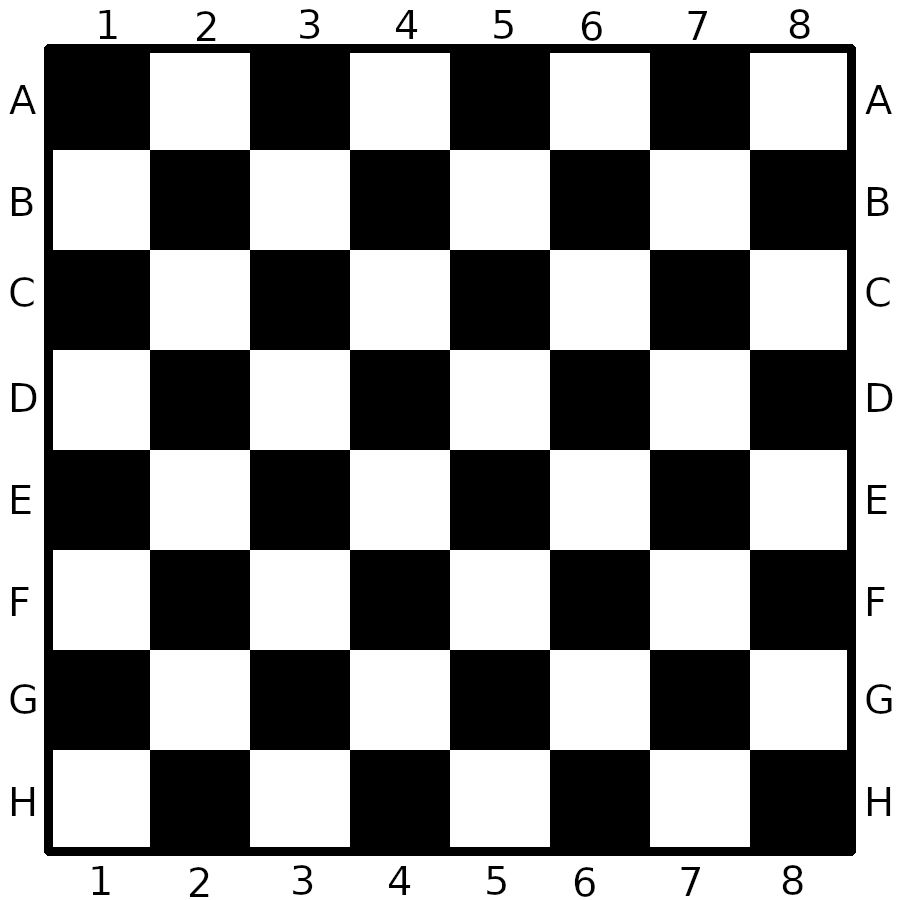
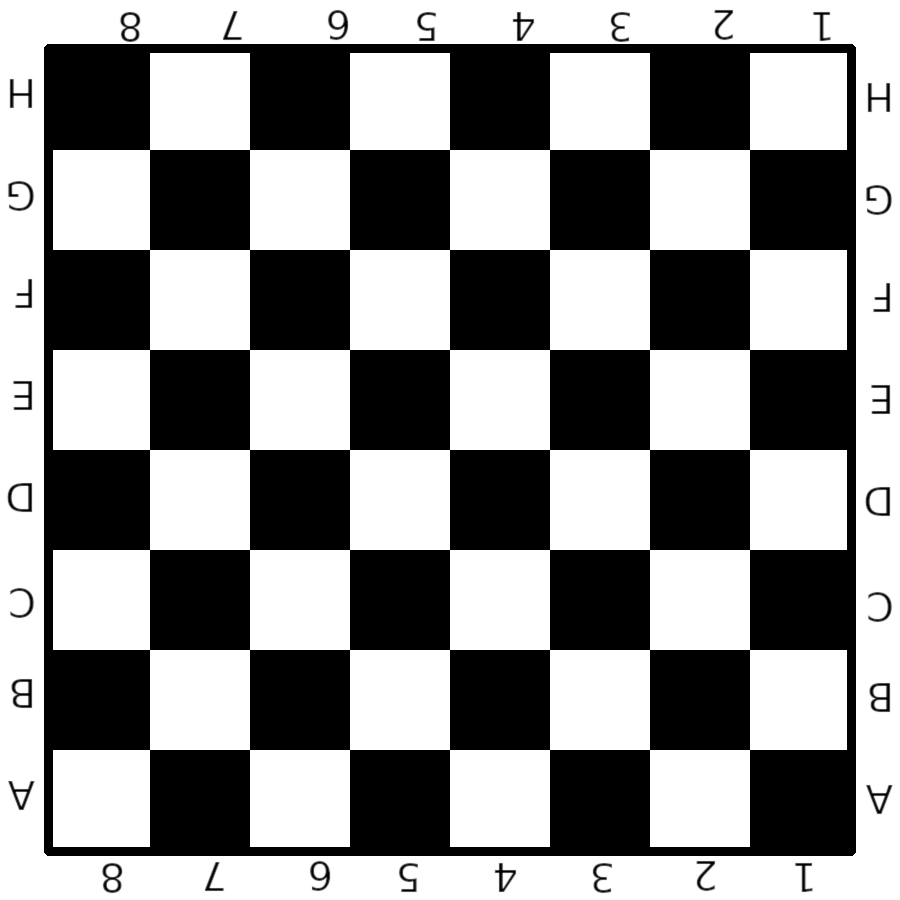
[fixed] fixed queen and king postion and chessboard.png

diff --git a/src/game/game.cpp b/src/game/game.cpp
@@ -6,8 +6,8 @@ Game::Game() {
     this->figures.emplace_back(TOWER, Figure::Position{'a', '1'}, true);
     this->figures.emplace_back(HORSE, Figure::Position{'b', '1'}, true);
     this->figures.emplace_back(RUNNER, Figure::Position{'c', '1'}, true);
-    this->figures.emplace_back(KING, Figure::Position{'d', '1'}, true);
-    this->figures.emplace_back(QUEEN, Figure::Position{'e', '1'}, true);
+    this->figures.emplace_back(QUEEN, Figure::Position{'d', '1'}, true);
+    this->figures.emplace_back(KING, Figure::Position{'e', '1'}, true);
     this->figures.emplace_back(RUNNER, Figure::Position{'f', '1'}, true);
     this->figures.emplace_back(HORSE, Figure::Position{'g', '1'}, true);
     this->figures.emplace_back(TOWER, Figure::Position{'h', '1'}, true);
@@ -18,8 +18,8 @@ Game::Game() {
     this->figures.emplace_back(TOWER, Figure::Position{'a', '8'}, false);
     this->figures.emplace_back(HORSE, Figure::Position{'b', '8'}, false);
     this->figures.emplace_back(RUNNER, Figure::Position{'c', '8'}, false);
-    this->figures.emplace_back(KING, Figure::Position{'d', '8'}, false);
-    this->figures.emplace_back(QUEEN, Figure::Position{'e', '8'}, false);
+    this->figures.emplace_back(QUEEN, Figure::Position{'d', '8'}, false);
+    this->figures.emplace_back(KING, Figure::Position{'e', '8'}, false);
     this->figures.emplace_back(RUNNER, Figure::Position{'f', '8'}, false);
     this->figures.emplace_back(HORSE, Figure::Position{'g', '8'}, false);
     this->figures.emplace_back(TOWER, Figure::Position{'h', '8'}, false);

diff --git a/src/main_file.cpp b/src/main_file.cpp
@@ -13,6 +13,7 @@
 float aspectRatio = 1;
 ProgramState *programState;
 Game *game;
+std::string fileName;
 
 void error_callback(int error, const char *description) {
     fputs(description, stderr);
@@ -20,7 +21,7 @@ void error_callback(int error, const char *description) {
 
 void keyCallback(GLFWwindow *window, int key, int scancode, int action, int mods) {
     programState->rotateController->keyCallback(window, key, scancode, action, mods);
-    if(key==GLFW_KEY_SPACE && action==GLFW_PRESS){
+    if (key == GLFW_KEY_SPACE && action == GLFW_PRESS) {
         game->nextMove();
     }
 }
@@ -38,7 +39,7 @@ void initOpenGLProgram(GLFWwindow *window) {
     game = new Game();
     programState = ProgramState::getInstance();
     glfwSetKeyCallback(window, keyCallback);
-    game->loadGameFile("../resources/game.txt");
+    game->loadGameFile(fileName);
 }
 
 void freeOpenGLProgram(GLFWwindow *window) {
@@ -53,7 +54,12 @@ void drawScene(GLFWwindow *window) {
     glfwSwapBuffers(window);
 }
 
-int main(void) {
+int main(int argc, char **argv) {
+    if(argc != 2) {
+        printf("Usage: ./chess <game_file>\n");
+        exit(EXIT_FAILURE);
+    }
+    fileName = argv[1];
     GLFWwindow *window;
 
     glfwSetErrorCallback(error_callback);

diff --git a/src/figure/figure.cpp b/src/figure/figure.cpp
@@ -9,7 +9,7 @@ Figure::Figure(std::string pathToObjFile, Figure::Position position, bool white)
 }
 
 void Figure::draw() {
-    glm::mat4 M = glm::translate(ProgramState::getInstance()->M, glm::vec3(3.5, -3.5, 0));
+    glm::mat4 M = glm::translate(ProgramState::getInstance()->M, glm::vec3(-3.5, -3.5, 0));
     M = positionTranslate(M);
     M = glm::scale(M, glm::vec3(0.2f, 0.2f, 0.2f));
     M = glm::rotate(M, glm::radians(90.0f), glm::vec3(1.0f, 0.0f, 0.0));
@@ -17,7 +17,7 @@ void Figure::draw() {
 }
 
 glm::mat4 Figure::positionTranslate(glm::mat4 M) {
-    int x = -1 * (this->position.x - 97);
+    int x = this->position.x - 97;
     int y = this->position.y - 49;
     M = glm::translate(M, glm::vec3(x, y, 0));
     return M;

diff --git a/src/chessboard/chessboard.cpp b/src/chessboard/chessboard.cpp
@@ -42,7 +42,7 @@ void Chessboard::copyMandTransform(glm::mat4 M) {
     ShaderProgram *sp = ProgramState::getInstance()->shadersContainer->getShader(ShadersType::TEXTURED);
     sp->use();
     this->obj = glm::rotate(M, glm::radians(90.0f), glm::vec3(0.0f, 1.0f, 0.0));
-    this->obj = glm::rotate(this->obj, glm::radians(270.0f), glm::vec3(1.0f, 0.0f, 0.0));
+    this->obj = glm::rotate(this->obj, glm::radians(90.0f), glm::vec3(1.0f, 0.0f, 0.0));
     this->obj = glm::rotate(this->obj, glm::radians(180.0f), glm::vec3(0.0f, 0.0f, 1.0));
     glUniformMatrix4fv(sp->u("M"), 1, false, glm::value_ptr(this->obj));
 }

diff --git a/src/program_state/program_state.cpp b/src/program_state/program_state.cpp
@@ -3,7 +3,7 @@
 ProgramState *ProgramState::instance = nullptr;
 
 ProgramState::ProgramState() {
-    this->V = glm::lookAt(glm::vec3(0.0f, 0.0f, -10.0f), glm::vec3(0.0f, 0.0f, 0.0f), glm::vec3(0.0f, 1.0f, 0.0f));
+    this->V = glm::lookAt(glm::vec3(0.0f, 0.0f, -12.0f), glm::vec3(0.0f, 0.0f, 0.0f), glm::vec3(0.0f, 1.0f, 0.0f));
     this->P = glm::perspective(glm::radians(50.0f), 1.0f, 1.0f, 50.0f);
     this->M = glm::mat4(1.0f);
     this->M = glm::translate(this->M, glm::vec3(0.0f, -2.0f, 0.0f));
